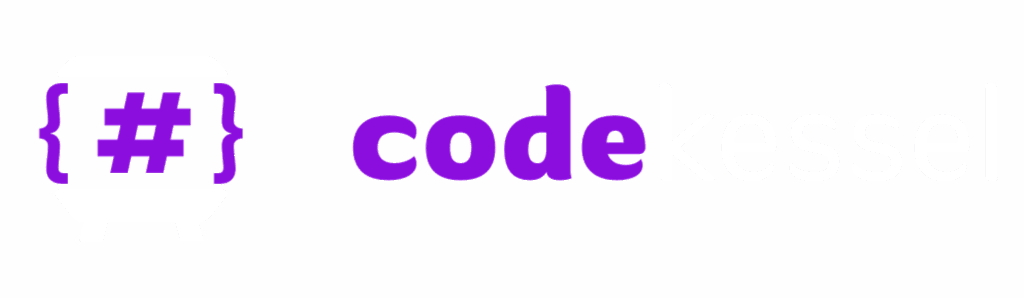
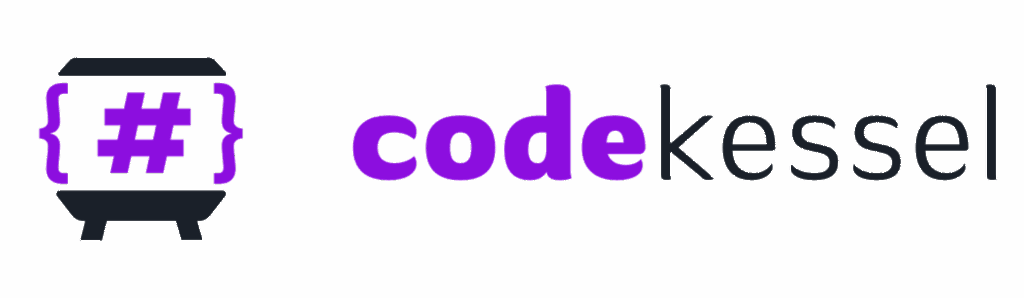
fix(auth): make the wordmark legible on light surfaces, rework sign-in
codekessel-wordmark.png was a byte-for-byte copy of the on-dark variant,
whose second half is white — so on every light surface the mark and the
word "kessel" simply were not there, and the sign-in card showed a
half-logo. The light variant now recolours those white pixels to the ink
token, which fixes sign-in, the pending screen and the legal masthead
together.

Sign-in itself becomes a split card: the brand sits on a dark panel,
where the on-dark wordmark belongs, beside a roomier form. The German
rate-limit sentence that was hardcoded in the page moves into messages,
and the two inline style objects are gone.

Changed region(s): [[0.625, 0.2718, 1.0, 0.604], [0.0312, 0.6342, 0.2188, 0.8154], [0.0625, 0.1812, 0.2188, 0.2718]]

diff --git a/src/app/auth/sign-in/page.tsx b/src/app/auth/sign-in/page.tsx
@@ -50,62 +50,82 @@ export default async function SignInPage({
 
   return (
     <div className="auth-viewport">
-      <main className="auth-card">
-        <header>
-          <Image
-            src="/brand/codekessel-wordmark.png"
-            alt="CodeKessel"
-            width={1024}
-            height={298}
-            className="auth-wordmark"
-            priority
-            unoptimized
-          />
-          <h1>{t("title")}</h1>
-          <p style={{ marginTop: "var(--space-2)", color: "var(--color-ink-faint)", fontSize: "var(--text-sm)" }}>
-            {t("subtitle")}
-          </p>
-        </header>
-
-        {error === "rate" ? (
-          <p className="form-error">
-            Zu viele Anmeldeversuche. Bitte warten Sie einen Moment und
-            versuchen Sie es erneut.
-          </p>
-        ) : googleErrorKey ? (
-          <p className="form-error">{t(googleErrorKey)}</p>
-        ) : error ? (
-          <p className="form-error">{t("error")}</p>
-        ) : null}
-
-        <form action={login} style={{ display: "flex", flexDirection: "column", gap: "var(--space-4)" }}>
-          <div className="field">
-            <label htmlFor="email">{t("email")}</label>
-            <input id="email" name="email" type="email" autoComplete="email" required />
+      <div className="auth-shell">
+        {/* The wordmark's second half is white, so it only reads on a dark
+            surface — which is also where the brand panel belongs. */}
+        <aside className="auth-brand">
+          <span className="auth-brand-atmosphere" aria-hidden="true">
+            <Image
+              src="/brand/codekessel-mark.png"
+              alt=""
+              width={856}
+              height={908}
+              className="auth-brand-watermark"
+              priority
+            />
+          </span>
+          <div className="auth-brand-content">
+            <Image
+              src="/brand/codekessel-wordmark-on-dark.png"
+              alt="CodeKessel"
+              width={1024}
+              height={298}
+              className="auth-brand-wordmark"
+              priority
+              unoptimized
+            />
+            <p className="auth-brand-lead">{t("brand.lead")}</p>
+            <ul className="auth-brand-points">
+              <li>{t("brand.point1")}</li>
+              <li>{t("brand.point2")}</li>
+              <li>{t("brand.point3")}</li>
+            </ul>
           </div>
-          <div className="field">
-            <label htmlFor="password">{t("password")}</label>
-            <input id="password" name="password" type="password" autoComplete="current-password" required />
-          </div>
-          <button type="submit" className="button">
-            {t("submit")}
-          </button>
-        </form>
+        </aside>
 
-        {showGoogle ? (
-          <>
-            <p className="auth-divider">{t("google.divider")}</p>
-            <a
-              href="/auth/google/start"
-              className="button button--ghost auth-google"
-              aria-label={t("google.submit")}
-            >
-              <GoogleMark />
-              {t("google.submit")}
-            </a>
-          </>
-        ) : null}
-      </main>
+        <main className="auth-panel">
+          <header className="auth-panel-header">
+            <h1>{t("title")}</h1>
+            <p className="auth-subtitle">{t("subtitle")}</p>
+          </header>
+
+          {error === "rate" ? (
+            <p className="form-error">{t("rateLimited")}</p>
+          ) : googleErrorKey ? (
+            <p className="form-error">{t(googleErrorKey)}</p>
+          ) : error ? (
+            <p className="form-error">{t("error")}</p>
+          ) : null}
+
+          <form action={login} className="auth-form">
+            <div className="field">
+              <label htmlFor="email">{t("email")}</label>
+              <input id="email" name="email" type="email" autoComplete="email" required />
+            </div>
+            <div className="field">
+              <label htmlFor="password">{t("password")}</label>
+              <input id="password" name="password" type="password" autoComplete="current-password" required />
+            </div>
+            <button type="submit" className="button">
+              {t("submit")}
+            </button>
+          </form>
+
+          {showGoogle ? (
+            <>
+              <p className="auth-divider">{t("google.divider")}</p>
+              <a
+                href="/auth/google/start"
+                className="button button--ghost auth-google"
+                aria-label={t("google.submit")}
+              >
+                <GoogleMark />
+                {t("google.submit")}
+              </a>
+            </>
+          ) : null}
+        </main>
+      </div>
       <LegalLinks />
     </div>
   );

diff --git a/src/styles/global.css b/src/styles/global.css
@@ -627,6 +627,167 @@ a:focus-visible {
   gap: var(--space-4);
 }
 
+/* Sign-in only: a dark brand half beside the form. `overflow: hidden` is what
+   keeps the dark panel inside the rounded corner instead of squaring it off. */
+.auth-shell {
+  width: 100%;
+  max-width: 58rem;
+  display: grid;
+  grid-template-columns: 1.05fr 1fr;
+  background: var(--color-surface);
+  border: 1px solid var(--color-line);
+  border-radius: var(--radius-lg);
+  box-shadow: var(--shadow-raised);
+  overflow: hidden;
+}
+
+.auth-brand {
+  position: relative;
+  isolation: isolate;
+  overflow: hidden;
+  padding: var(--space-8);
+  display: flex;
+  flex-direction: column;
+  justify-content: center;
+  gap: var(--space-6);
+  color: var(--color-sidebar-text);
+  background:
+    radial-gradient(34rem 22rem at 6% 112%, rgb(143 20 224 / 0.5), transparent 62%),
+    radial-gradient(24rem 16rem at 98% -12%, rgb(143 20 224 / 0.26), transparent 60%),
+    var(--color-sidebar);
+}
+
+.auth-brand-atmosphere {
+  position: absolute;
+  inset: 0;
+  z-index: 0;
+  pointer-events: none;
+}
+
+.auth-brand-watermark {
+  position: absolute;
+  right: -30%;
+  bottom: -22%;
+  width: 96%;
+  height: auto;
+  opacity: 0.16;
+  filter: saturate(1.2);
+  transform: rotate(-8deg);
+  mask-image: linear-gradient(140deg, transparent 10%, black 48%, transparent 96%);
+}
+
+.auth-brand-content {
+  position: relative;
+  z-index: 1;
+  display: flex;
+  flex-direction: column;
+  gap: var(--space-5);
+}
+
+.auth-brand-wordmark {
+  display: block;
+  width: min(100%, 200px);
+  height: auto;
+}
+
+.auth-brand-lead {
+  margin: 0;
+  font-size: var(--text-lg);
+  font-weight: 600;
+  line-height: 1.4;
+  color: white;
+  text-wrap: balance;
+}
+
+.auth-brand-points {
+  margin: 0;
+  padding: 0;
+  list-style: none;
+  display: flex;
+  flex-direction: column;
+  gap: var(--space-3);
+  font-size: var(--text-sm);
+  line-height: 1.5;
+  color: var(--color-sidebar-muted);
+}
+
+.auth-brand-points li {
+  position: relative;
+  padding-left: var(--space-5);
+}
+
+.auth-brand-points li::before {
+  content: "";
+  position: absolute;
+  left: 0;
+  top: 0.5em;
+  width: 6px;
+  height: 6px;
+  border-radius: 50%;
+  background: var(--color-accent);
+  box-shadow: 0 0 0 3px rgb(143 20 224 / 0.22);
+}
+
+.auth-panel {
+  padding: var(--space-8) var(--space-6);
+  display: flex;
+  flex-direction: column;
+  justify-content: center;
+  gap: var(--space-5);
+  background: var(--color-surface);
+}
+
+.auth-panel-header h1 {
+  margin: 0;
+}
+
+.auth-subtitle {
+  margin: var(--space-2) 0 0;
+  color: var(--color-ink-faint);
+  font-size: var(--text-sm);
+  line-height: 1.5;
+}
+
+.auth-form {
+  display: flex;
+  flex-direction: column;
+  gap: var(--space-4);
+}
+
+/* Roomier controls than the dense internal screens: this page is one decision,
+   not a working surface. */
+.auth-panel .field input {
+  padding: var(--space-3);
+  background: var(--color-surface);
+}
+
+.auth-panel .button {
+  width: 100%;
+  padding: var(--space-3) var(--space-4);
+}
+
+@media (max-width: 880px) {
+  .auth-shell {
+    grid-template-columns: 1fr;
+    max-width: 26rem;
+  }
+
+  /* Collapsed to a masthead: the value copy is not worth a scroll on a phone,
+     but the brand still has to survive the fold. */
+  .auth-brand {
+    padding: var(--space-6);
+    gap: var(--space-4);
+  }
+
+  .auth-brand-points {
+    display: none;
+  }
+
+  .auth-brand-lead {
+    font-size: var(--text-base);
+  }
+}
+
 .auth-wordmark {
   width: auto;
   height: 24px;
